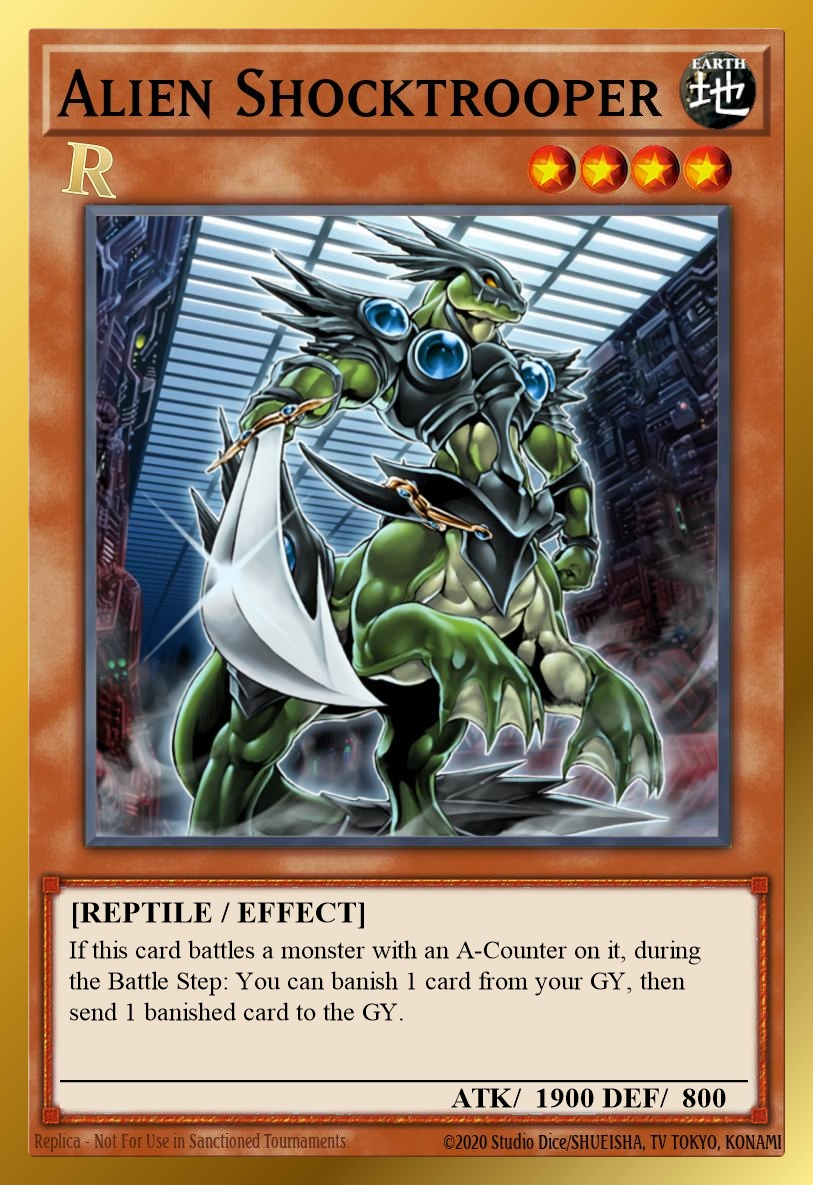
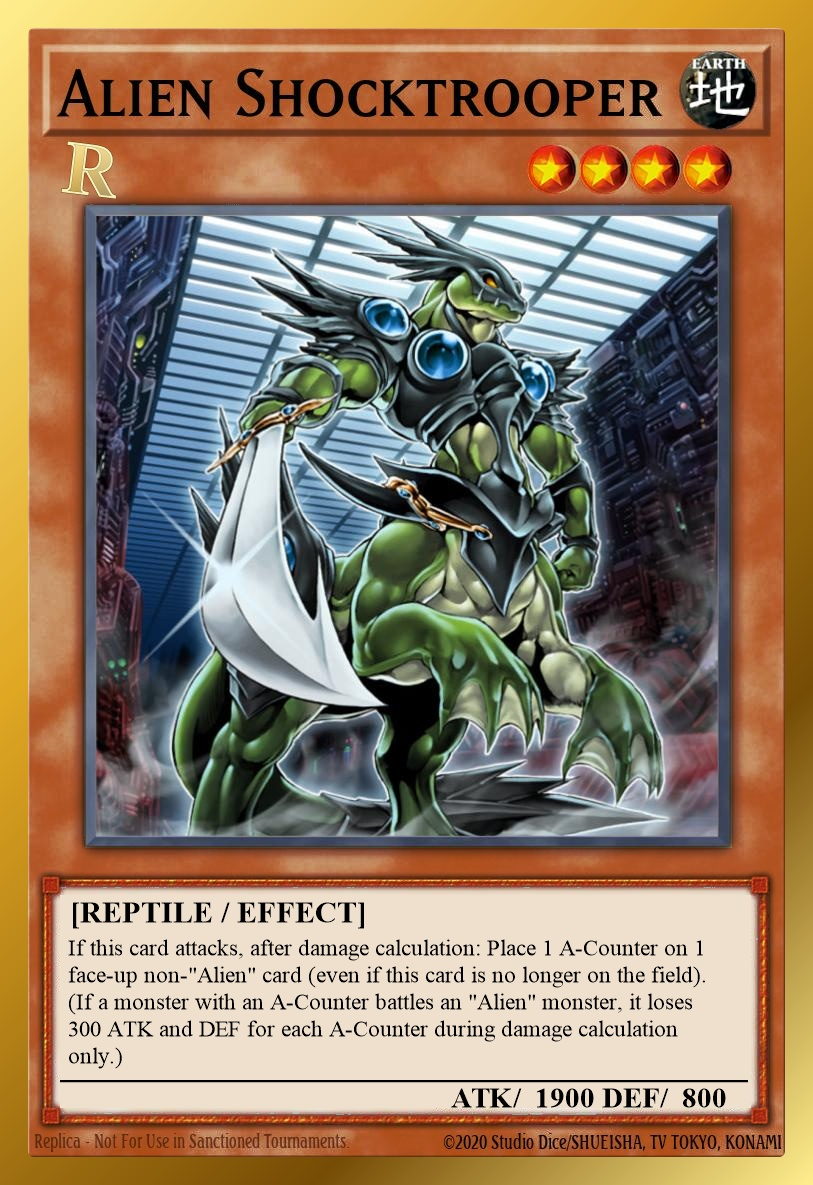
Alien Shocktrooper rework

Changed region(s): [[0.0615, 0.7806, 0.861, 0.9055]]

diff --git a/Redux/scripts/build-cards-cdb.js b/Redux/scripts/build-cards-cdb.js
@@ -130,8 +130,8 @@ module.exports = function buildCardsDb({ reduxRoot }) {
   const alienShocktrooperTextResult = db
     .prepare("UPDATE texts SET desc = ?, str1 = ? WHERE id = ?")
     .run(
-      'If this card battles a monster with an A-Counter on it, during the Battle Step: You can banish 1 card from your GY, then send 1 banished card to the GY.',
-      "Banish 1 card from your GY, then send 1 banished card to the GY",
+      'If this card attacks, after damage calculation: Place 1 A-Counter on 1 face-up non-"Alien" card (even if this card is no longer on the field). (If a monster with an A-Counter battles an "Alien" monster, it loses 300 ATK and DEF for each A-Counter during damage calculation only.)',
+      'Place 1 A-Counter on 1 face-up non-"Alien" card',
       97127906,
     );
   const alienShocktrooperTypeResult = db

diff --git a/README.md b/README.md
@@ -90,7 +90,7 @@ Redux Limits: `0` = forbidden; `1` = limited; `2` = semi-limited; `3` = unlimite
 | `3` [Alien Otherworld - The "A" Zone](https://yugioh.fandom.com/wiki/Otherworld_-_The_%22A%22_Zone) | 🔄 Counts as Alien |
 | `3` [Alien Overlord](https://yugioh.fandom.com/wiki/Alien_Overlord) | 🔄 Shares high-level Alien control limit; A-Counters on all face-up non-Alien cards |
 | `3` [Alien Planet Pollutant Virus](https://yugioh.fandom.com/wiki/Planet_Pollutant_Virus) | 🔄 Counts as Alien |
-| `3` [Alien Shocktrooper](https://yugioh.fandom.com/wiki/Alien_Shocktrooper) | 🔄 Battle Step effect vs A-Counter monsters; banish from GY then send banished card to GY |
+| `3` [Alien Shocktrooper](https://yugioh.fandom.com/wiki/Alien_Shocktrooper) | 🔄 On attack, gives 1 A-Counter on non-Alien card after damage calc (even if no longer on field); A-Counter battle penalty |
 | `3` [Alien Warrior](https://yugioh.fandom.com/wiki/Alien_Warrior) | ⬆ Destroy trigger; gives 2 A-Counters on non-Alien card(s) |
 | `3` [Ally of Justice Field Marshal](https://yugioh.fandom.com/wiki/Ally_of_Justice_Field_Marshal) | 🔄 1 Tuner + 1+ monsters; multiple tuners; piercing; draw on battle damage |
 | `2` [Black Whirlwind](https://yugioh.fandom.com/wiki/Black_Whirlwind) | ⬇ Once per turn |
